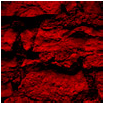
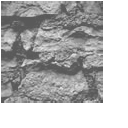
Working(?) background

diff --git a/krakjam2013/src/com/subfty/krkjam2013/game/Background.java b/krakjam2013/src/com/subfty/krkjam2013/game/Background.java
@@ -4,18 +4,19 @@ import java.util.Random;
 
 import com.badlogic.gdx.graphics.g2d.Sprite;
 import com.badlogic.gdx.graphics.g2d.SpriteBatch;
+import com.badlogic.gdx.scenes.scene2d.Actor;
 import com.badlogic.gdx.scenes.scene2d.Group;
 import com.subfty.krkjam2013.Krakjam;
 import com.subfty.krkjam2013.util.Art;
 
 public class Background extends Group{
 	
-	private final static float TILE_SIZE = 5;
-	private final long SEED = 123412431;
+	private final static float TILE_SIZE = 50;
+	private final long SEED = -123412431;
 	private Random random;
 	
-	private Sprite bgSprites[][]= new Sprite[(int) (Krakjam.SCREEN_WIDTH / TILE_SIZE + 2)]
-			  								[(int) (Krakjam.SCREEN_HEIGHT / TILE_SIZE + 2)]; 
+	private Sprite bgSprites[][]= new Sprite[(int) (Krakjam.STAGE_W / TILE_SIZE + 2)]
+			  								[(int) (Krakjam.STAGE_H / TILE_SIZE + 2)]; 
 	
     //INIT
 	public Background(){
@@ -32,20 +33,42 @@ public class Background extends Group{
 				bgSprites[i][j] = new Sprite();
 				bgSprites[i][j].setSize(TILE_SIZE, TILE_SIZE);
 			}
+		
+		act(0);
 	}
 	
 	public void act(float delta) {
 		for(int i=0; i<bgSprites.length; i++)
 			for(int j=0; j<bgSprites[i].length; j++){
+				random.setSeed(SEED + 
+							   (int)(this.x / TILE_SIZE) +
+							   (int)(this.y / TILE_SIZE)*bgSprites.length +
+							   i + j*bgSprites.length);
+				
 				bgSprites[i][j].setRegion(Krakjam.art.atlases[Art.A_BACKGROUND].findRegion("bg", 1));
 				bgSprites[i][j].setX(i * TILE_SIZE);
 				bgSprites[i][j].setY(j * TILE_SIZE);
+				
+				bgSprites[i][j].setColor(255.0f*random.nextFloat()/255.0f, 
+										 255.0f*random.nextFloat()/255.0f, 
+										 255.0f*random.nextFloat()/255.0f, 1);
 			}
+		
+		//this.x += 0.01f;
 	}
 	
 	public void draw(SpriteBatch batch, float parentAlpha) {
 		for(int i=0; i<bgSprites.length; i++)
 			for(int j=0; j<bgSprites[i].length; j++)
 				bgSprites[i][j].draw(batch, parentAlpha);
+	}
+	
+	//OCCUPATION
+	public boolean isOccupied(int x, int y){
+		return false;
+	}
+	
+	public void registerBuilding(Actor building){
+		
 	}
 }
